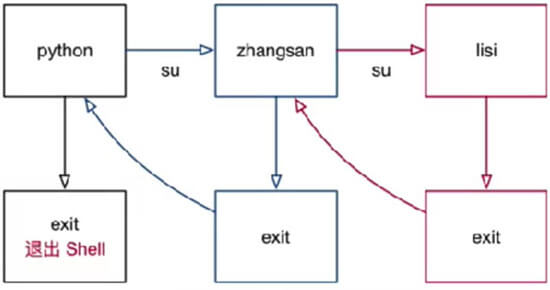
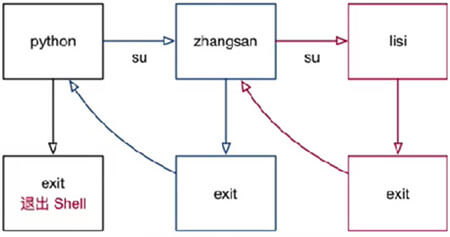
修改图片尺寸

diff --git a/pages/permision.md b/pages/permision.md
@@ -187,7 +187,7 @@ $ exit
 * `user`为空会切换到`root`用户。不安全，不推荐
 * 切换和退出用户示意图：
 
-<img src='../img/suexit.jpg' style='max-width:55%'>
+<img src='../img/suexit.jpg'>
 
 ```sh
 # 切换test用户并切换到其主目录(/home/test)
